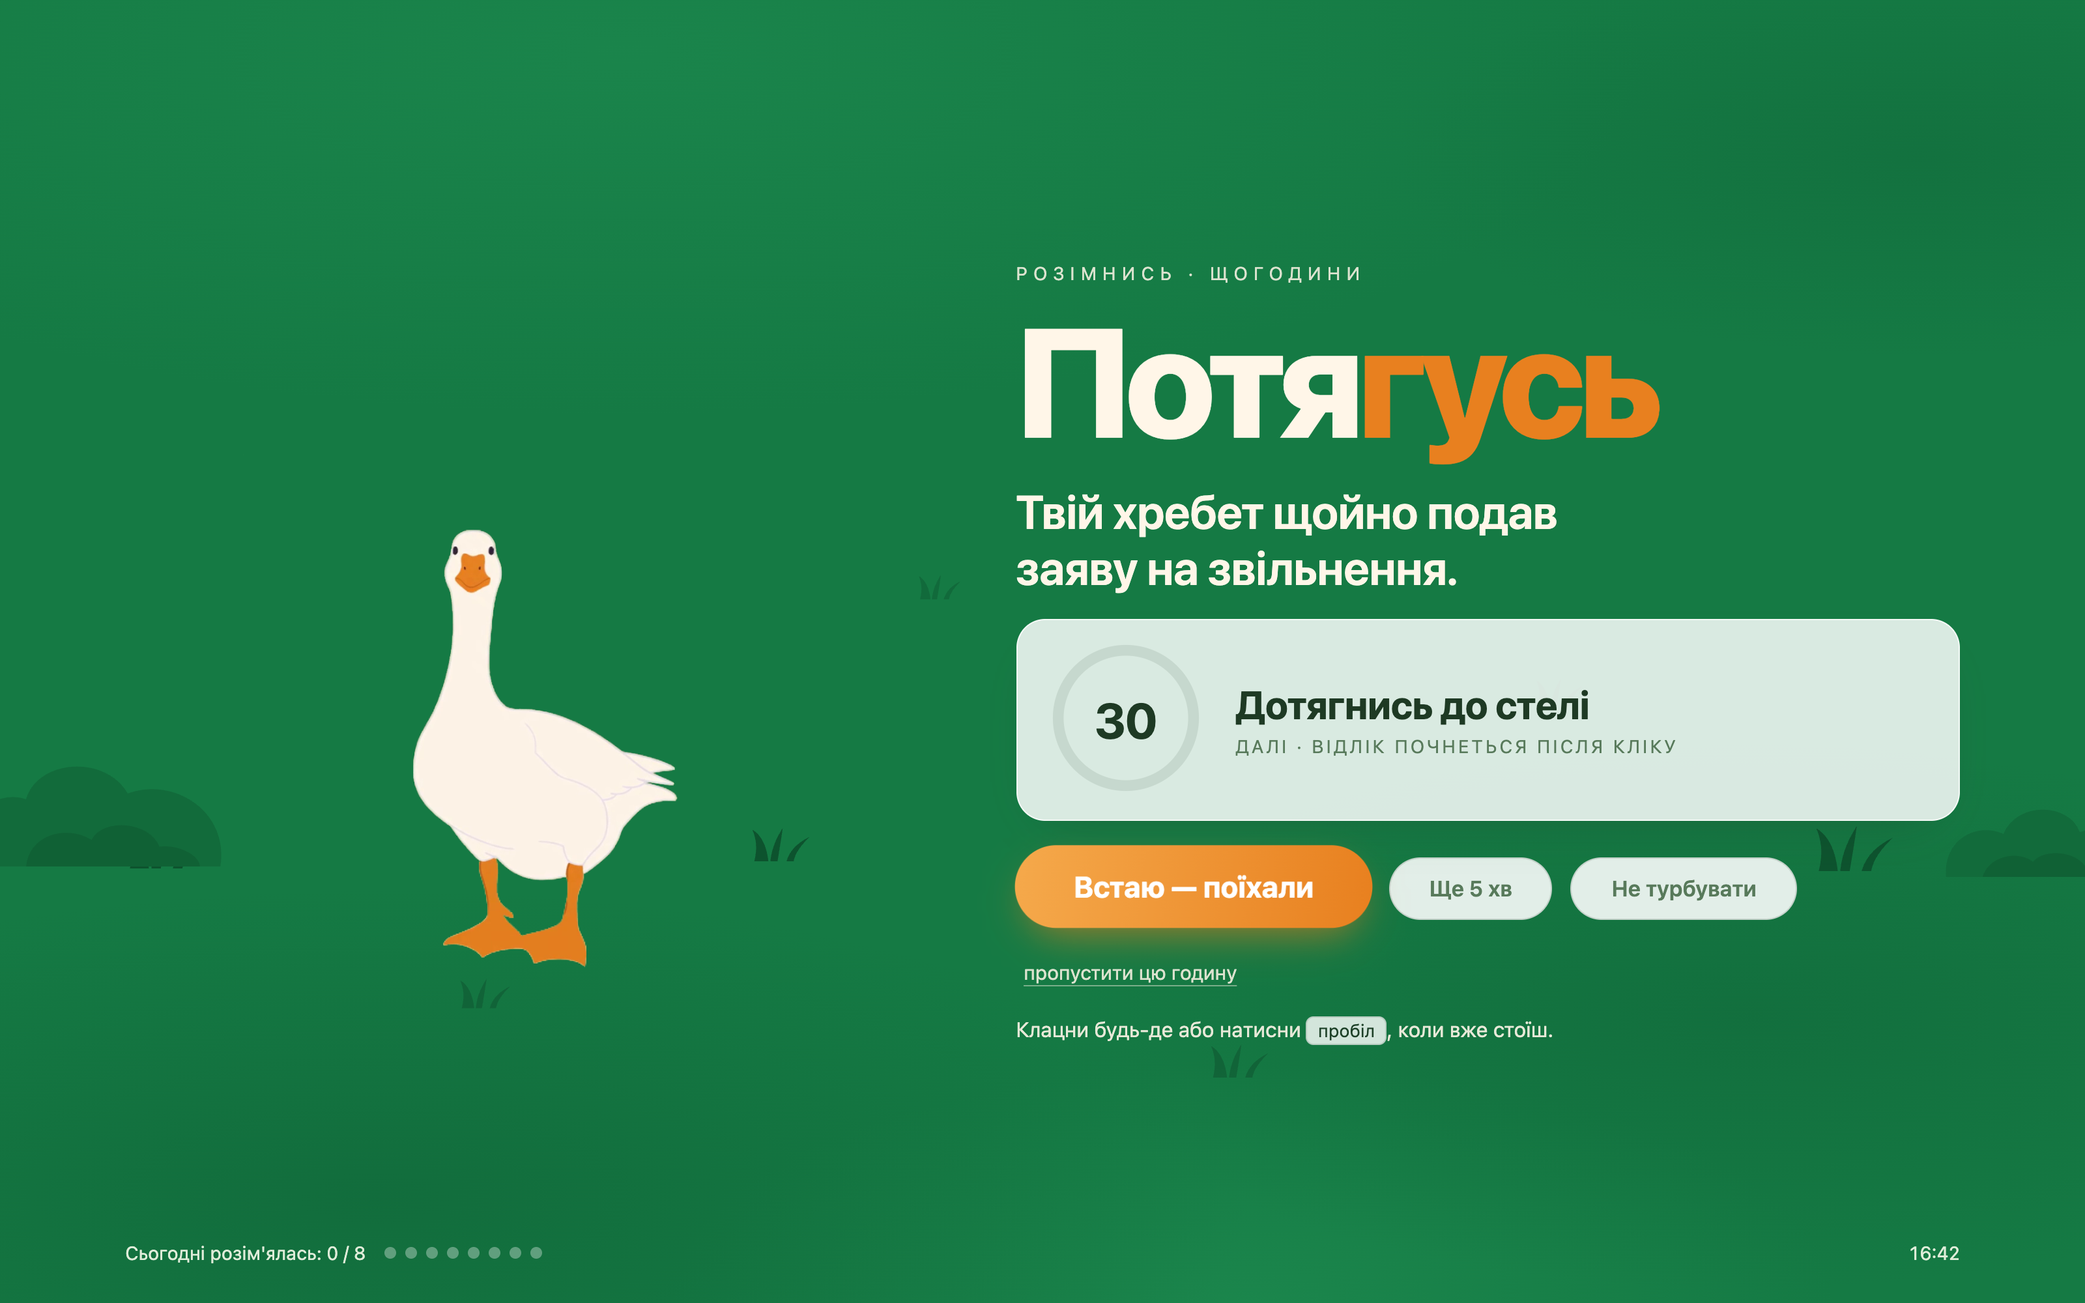
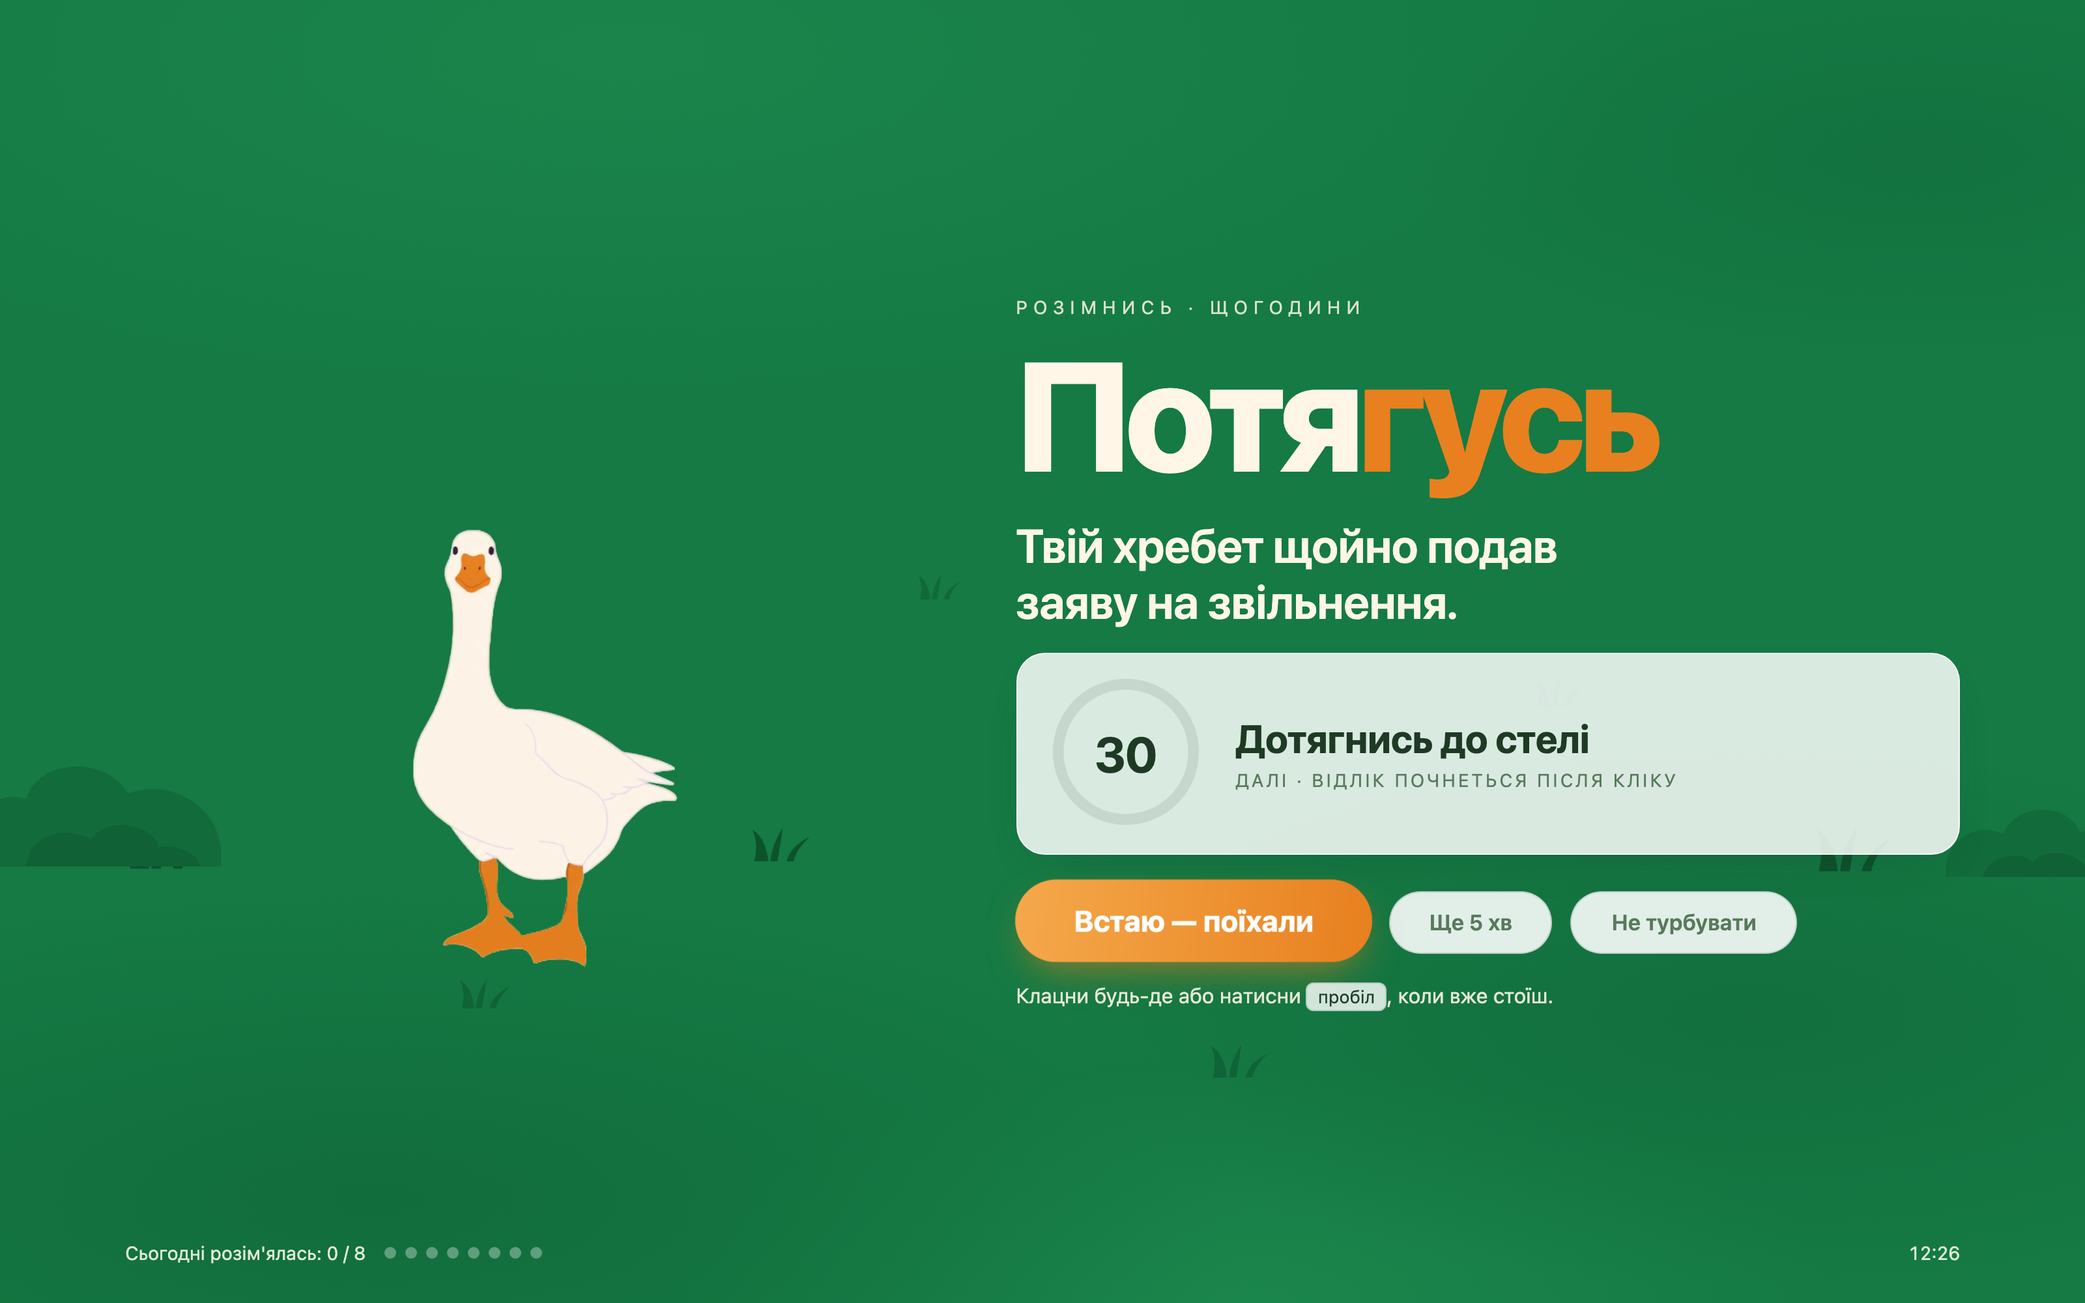
v0.5: прохання про донат після чотирьох днів, без кнопки «пропустити цю годину»
Після завершеної вправи гусь показує картку «Кинь гусеві в банку» з банкою
monobank із сайту, коли набралось чотири дні з вправами. «Кинути в банку»
відкриває посилання й мовчить 90 днів, «Іншим разом» — 7. Вимикається
ключем donateAsk у config.json. Кнопку «пропустити цю годину» прибрано:
те саме робить «Не турбувати».

Changed region(s): [[0.4688, 0.186, 0.9375, 0.806]]

diff --git a/web/overlay.html b/web/overlay.html
@@ -139,9 +139,6 @@
     font-size:clamp(14px,1.05vw,17px);font-weight:600;color:var(--ink-dim);
     background:rgba(255,255,255,.88);border:1px solid rgba(30,58,36,.16)}
   .btn-ghost:hover{background:rgba(255,255,255,.96);color:var(--ink)}
-  .btn-skip{background:none;border:0;color:var(--on-grass);opacity:.85;font-size:clamp(13px,.95vw,16px);
-    padding:10px 6px;text-decoration:underline;text-underline-offset:4px;text-decoration-color:rgba(255,246,232,.5)}
-  .btn-skip:hover{opacity:1}
 
   /* ---------- «не турбувати»: вибір тривалості просто над кнопкою ---------- */
   .dnd{position:relative}
@@ -194,9 +191,25 @@
   .bye{position:fixed;inset:0;z-index:6;display:grid;place-items:center;
     background:rgba(234,243,225,.86);backdrop-filter:blur(14px);opacity:0;pointer-events:none;transition:opacity .45s ease}
   .bye.show{opacity:1}
-  .bye p{font-size:clamp(26px,2.8vw,46px);font-weight:800;text-align:center;max-width:22ch;text-wrap:balance;
+  .bye>p{font-size:clamp(26px,2.8vw,46px);font-weight:800;text-align:center;max-width:22ch;text-wrap:balance;
     color:var(--good);letter-spacing:-.02em;transform:translateY(14px) scale(.96);transition:transform .5s cubic-bezier(.2,1.3,.4,1)}
-  .bye.show p{transform:none}
+  .bye.show>p{transform:none}
+
+  /* ---------- «кинь гусеві в банку»: після вправи, коли набралось кілька днів користування ---------- */
+  .ask-card{display:none;flex-direction:column;gap:clamp(10px,1.4vh,16px);width:min(92vw,600px);
+    padding:clamp(24px,3.4vh,38px) clamp(24px,2.6vw,40px);border-radius:28px;background:#FFF6E8;color:var(--ink);
+    box-shadow:0 30px 80px -30px rgba(12,40,24,.55);transform:translateY(18px);opacity:0;
+    transition:transform .5s cubic-bezier(.2,1.2,.4,1) .25s,opacity .4s ease .25s}
+  .bye.ask{pointer-events:auto;grid-auto-flow:row;align-content:center;gap:clamp(18px,3vh,30px)}
+  .bye.ask .ask-card{display:flex}
+  .bye.ask.show .ask-card{transform:none;opacity:1}
+  .ask-kicker{font-size:clamp(11px,.85vw,13px);letter-spacing:.32em;text-transform:uppercase;font-weight:600}
+  .ask-card h2{font-size:clamp(26px,2.4vw,38px);font-weight:800;letter-spacing:-.03em;line-height:1.08}
+  .ask-card p{font-size:clamp(15px,1.15vw,19px);line-height:1.5}
+  .ask-card .actions{margin-top:clamp(6px,1vh,12px)}
+  .ask-card .btn-primary{display:inline-flex;flex-direction:column;align-items:flex-start;gap:2px;color:var(--ink);text-align:left}
+  .ask-card .btn-primary small{font-size:.68em;font-weight:600;letter-spacing:.02em}
+  .ask-card .btn-ghost{color:var(--ink);background:#fff;border-color:rgba(30,58,36,.28)}
 
   @media (max-aspect-ratio:1/1),(max-width:900px){
     :root{--horizon:44vh}
@@ -670,7 +683,6 @@
             <button data-dnd="-1">До кінця дня</button>
           </div>
         </div>
-        <button class="btn-skip" id="btnSkip">пропустити цю годину</button>
       </div>
       <div class="hint">Клацни будь-де або натисни <kbd>пробіл</kbd>, коли вже стоїш.</div>
     </div>
@@ -700,7 +712,6 @@
             <button data-dnd="-1">До кінця дня</button>
           </div>
         </div>
-        <button class="btn-skip" id="btnSkip2">пропустити цю годину</button>
       </div>
     </div>
   </div>
@@ -709,7 +720,18 @@
 <div class="foot"><span id="footText">Сьогодні: 0</span><span class="dots" id="dots"></span></div>
 <div class="clock" id="clock"></div>
 <div class="confetti" id="confetti"></div>
-<div class="bye" id="bye"><p id="byeText"></p></div>
+<div class="bye" id="bye">
+  <p id="byeText"></p>
+  <div class="ask-card" id="askCard">
+    <div class="ask-kicker">підтримати</div>
+    <h2>Кинь гусеві в банку.</h2>
+    <p id="askText"></p>
+    <div class="actions">
+      <button class="btn-primary" id="btnDonate">Кинути в банку<small>monobank · будь-яка сума</small></button>
+      <button class="btn-ghost" id="btnDonateLater">Іншим разом</button>
+    </div>
+  </div>
+</div>
 
 <script>
 "use strict";
@@ -742,7 +764,7 @@ const VIEW = {
 };
 
 let state = "idle", total = 30, left = 30, tick = null, finished = false, closing = false, startedAt = null;
-/* ?shot=idle|active|done — режим для промо-скрінів: без звуку, без відліку, без автозакриття */
+/* ?shot=idle|active|done|donate — режим для промо-скрінів: без звуку, без відліку, без автозакриття */
 const SHOT = new URLSearchParams(location.search).get("shot");
 /* ?img=<png із зеленим фоном> — стоп-кадр замість відео (headless-браузери відео не грають) */
 let shotImg = null;
@@ -838,8 +860,6 @@ function render(){
   }
   $("footText").textContent = "Сьогодні розім'ялась: " + DATA.todayCount + " / " + goal;
 
-  const skipText = DATA.interval === 60 ? "пропустити цю годину" : "пропустити цього разу";
-  $("btnSkip").textContent = $("btnSkip2").textContent = skipText;
 
   total = left = DATA.seconds;
   $("num").textContent = left;
@@ -918,9 +938,29 @@ function finish(reason, extra){
     : reason === "snooze" ? "Добре. Але я повернусь за 5 хвилин."
     : reason === "dnd"    ? "Гаразд, не турбую " + dndUntil(extra.minutes) + "."
     :                       "Ну гаразд. Але я все бачив.";
-  $("bye").classList.add("show");
   const elapsed = startedAt ? Math.round((Date.now() - startedAt)/1000) : 0;
-  setTimeout(() => send(reason, Object.assign({elapsed, started: !!startedAt}, extra)), 1150);
+  const info = Object.assign({elapsed, started: !!startedAt}, extra);
+  if (reason === "done" && DATA.donate) { askDonation(info); return; }
+  $("bye").classList.add("show");
+  setTimeout(() => send(reason, info), 1150);
+}
+
+/* ---------- «кинь гусеві в банку» ---------- */
+function daysWord(n){
+  const a = n % 10, b = n % 100;
+  return n + " " + (a === 1 && b !== 11 ? "день" : a >= 2 && a <= 4 && (b < 12 || b > 14) ? "дні" : "днів");
+}
+// Вправу вже зроблено: «done» іде застосунку разом із відповіддю, щоб день зарахувався за будь-якого вибору.
+function askDonation(info){
+  $("askText").textContent = "Ми разом уже " + daysWord(DATA.donate.days) + ". Я безкоштовний і з відкритим кодом. " +
+    "Зараз збираю на офіційний акаунт розробника Apple: тоді macOS перестане лякати попередженнями, " +
+    "а я зможу потрапити в App Store. Будь-яка сума наближає.";
+  $("bye").classList.add("ask", "show");
+  let answered = false;
+  const answer = how => { if (answered) return; answered = true; send("done", Object.assign({donate: how}, info)); };
+  $("btnDonate").onclick = () => answer("open");
+  $("btnDonateLater").onclick = () => answer("later");
+  if (!SHOT) setTimeout(() => answer("later"), 60000);    // ніхто не відповів — не тримаємо екран, спитаємо за тиждень
 }
 
 /* ---------- sound ---------- */
@@ -1011,8 +1051,6 @@ window.addEventListener("keydown", e => { if ((e.code === "Space" || e.code === 
 $("btnDone").onclick    = () => finish("done");
 $("btnSnooze").onclick  = e => { e.stopPropagation(); finish("snooze"); };
 $("btnSnooze2").onclick = () => finish("snooze");
-$("btnSkip").onclick    = e => { e.stopPropagation(); finish("skip"); };
-$("btnSkip2").onclick   = () => finish("skip");
 document.querySelectorAll(".dnd").forEach(box => {
   box.querySelector("[data-dnd-toggle]").onclick = e => { e.stopPropagation(); box.classList.toggle("open"); };
   box.querySelectorAll("[data-dnd]").forEach(b => b.onclick = e => {
@@ -1039,10 +1077,12 @@ window.rozimnysInit = function(payload){
   if (!greeted && !SHOT) { greeted = true; setTimeout(() => honk("hello"), 900); }
 };
 setTimeout(() => { if (document.body.dataset.state === "idle" && !$("steps").children.length) render(); }, 260);
-if (SHOT === "active" || SHOT === "done") setTimeout(() => {
+if (SHOT === "donate") DATA.donate = {days: Number(new URLSearchParams(location.search).get("days")) || 4};
+if (SHOT === "active" || SHOT === "done" || SHOT === "donate") setTimeout(() => {
   begin(); clearInterval(tick);
   left = 21; $("num").textContent = left; $("prog").style.strokeDashoffset = 2*Math.PI*44 * (left / total);
-  if (SHOT === "done") setTimeout(complete, 400);
+  if (SHOT === "done" || SHOT === "donate") setTimeout(complete, 400);
+  if (SHOT === "donate") setTimeout(() => finish("done"), 1200);
 }, 600);
 </script>
 </body>

diff --git a/src/main.swift b/src/main.swift
@@ -53,6 +53,8 @@ struct Config {
     var showMenuBarIcon = true
     /// Exercise ids unticked in the menu-bar catalogue — the goose never picks these.
     var disabledExercises: [String] = []
+    /// «Кинь гусеві в банку» after a few days of real use. `false` in config.json switches it off.
+    var donateAsk = true
 
     static func load() -> Config {
         var c = Config()
@@ -73,6 +75,7 @@ struct Config {
         if let v = j["volume"]          as? Int  { c.volume = min(max(v, 0), 100) }
         if let v = j["showMenuBarIcon"] as? Bool { c.showMenuBarIcon = v }
         if let v = j["disabledExercises"] as? [String] { c.disabledExercises = v }
+        if let v = j["donateAsk"] as? Bool { c.donateAsk = v }
         return c
     }
 }
@@ -166,6 +169,46 @@ func doneToday() -> Int {
 
 func lastExerciseIDs(_ n: Int) -> [String] {
     Array(historyLines().suffix(n).compactMap { $0["exercise"] as? String })
+}
+
+// MARK: - Donation ask
+
+/// The same monobank jar as on potyagus.alinauvarova.com.
+let donateURL = URL(string: "https://send.monobank.ua/jar/7LSbjGstiL")!
+/// Days with at least one finished exercise before the goose asks for the first time.
+let donateAfterDays = 4
+/// How long the goose stays quiet after an answer: «кинути в банку» / «іншим разом».
+let donateQuietDaysAfterOpen = 90.0, donateQuietDaysAfterLater = 7.0
+
+/// The app's own bookkeeping (not user settings — those live in config.json).
+func loadState() -> [String: Any] {
+    ((try? Data(contentsOf: stateURL)).flatMap { try? JSONSerialization.jsonObject(with: $0) } as? [String: Any]) ?? [:]
+}
+
+func saveStateValue(_ key: String, _ value: Any) {
+    var j = loadState()
+    j[key] = value
+    guard let d = try? JSONSerialization.data(withJSONObject: j, options: [.prettyPrinted, .sortedKeys]) else { return }
+    try? d.write(to: stateURL, options: .atomic)
+}
+
+/// Distinct days on which at least one exercise was finished.
+func activeDays() -> Int {
+    let cal = Calendar.current
+    var days = Set<Date>()
+    for row in historyLines() where (row["reason"] as? String) == "done" {
+        if let ts = row["ts"] as? Double { days.insert(cal.startOfDay(for: Date(timeIntervalSince1970: ts))) }
+    }
+    return days.count
+}
+
+/// Number of active days to mention in the ask, or nil when it is not time to ask.
+func donationAskDays(_ cfg: Config) -> Int? {
+    guard cfg.donateAsk else { return nil }
+    let days = activeDays()
+    guard days >= donateAfterDays else { return nil }
+    if let next = loadState()["donateAskAfter"] as? Double, Date().timeIntervalSince1970 < next { return nil }
+    return days
 }
 
 // MARK: - Should we nudge at all?
@@ -760,7 +803,7 @@ final class Controller: NSObject, NSApplicationDelegate, NSMenuDelegate, WKScrip
 
     func webView(_ wv: WKWebView, didFinish nav: WKNavigation!) {
         let cfg = Config.load()
-        let payload: [String: Any] = [
+        var payload: [String: Any] = [
             "taunt":      lib.taunts.randomElement() ?? "Встань і розімнись.",
             "doneLine":   lib.done_lines.randomElement() ?? "Молодець.",
             "name":       current.name,
@@ -773,6 +816,7 @@ final class Controller: NSObject, NSApplicationDelegate, NSMenuDelegate, WKScrip
             "interval":   cfg.intervalMinutes,
             "muted":      wv !== primaryWebView
         ]
+        if let days = donationAskDays(cfg) { payload["donate"] = ["days": days] }
         guard let d = try? JSONSerialization.data(withJSONObject: payload),
               let json = String(data: d, encoding: .utf8) else { return }
         wv.evaluateJavaScript("window.rozimnysInit(\(json))", completionHandler: nil)
@@ -792,7 +836,14 @@ final class Controller: NSObject, NSApplicationDelegate, NSMenuDelegate, WKScrip
             setPaused(until: mins < 0 ? Calendar.current.startOfDay(for: Date()).addingTimeInterval(24 * 3600)
                                       : Date().addingTimeInterval(Double(mins) * 60))
             close(reason: "dnd")
-        case "done", "skip", "ignored": close(reason: action)
+        case "done", "skip", "ignored":
+            // Answer to «кинь гусеві в банку», shown after a finished exercise.
+            if let answer = body["donate"] as? String {
+                let quiet = answer == "open" ? donateQuietDaysAfterOpen : donateQuietDaysAfterLater
+                saveStateValue("donateAskAfter", Date().timeIntervalSince1970 + quiet * 86400)
+                if answer == "open" { NSWorkspace.shared.open(donateURL) }
+            }
+            close(reason: action)
         case "snooze":                  snooze()
         default: break
         }

diff --git a/README.md b/README.md
@@ -19,7 +19,7 @@
 4. запускає відлік 3-2-1 і показує вправу;
 5. записує результат у локальну історію.
 
-Якщо момент зовсім невдалий, нагадування можна відкласти на 5 хвилин, пропустити або натиснути
+Якщо момент зовсім невдалий, нагадування можна відкласти на 5 хвилин або натиснути
 «Не турбувати» просто на екрані тренування — на 30 хвилин, годину, дві чи до кінця дня.
 Після паузи звичайний розклад повертається сам.
 
@@ -35,7 +35,7 @@
 
 ### Просто: DMG
 
-Скачай **[Potyagus-0.4.dmg](https://github.com/uvallie/Potyagus/releases/latest)**, перетягни
+Скачай **[Potyagus-0.5.dmg](https://github.com/uvallie/Potyagus/releases/latest)**, перетягни
 `Potyagus.app` у «Програми» і відкрий. Перший раз — правий клік → «Відкрити», бо застосунок
 підписаний без Apple Developer ID. Далі він сам:
 
